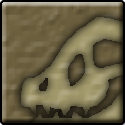
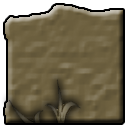
Adicionado imagens dos fóssies no minigame do level 5.

diff --git a/js/main.js b/js/main.js
@@ -20,7 +20,7 @@ var levelImagens = [];
 var nomeJogador;
 var musicas = [];
 var particulas = [];
-var quantidadeObjetos = 81; // imagens e sons
+var quantidadeObjetos = 97; // imagens e sons
 var contadorObjetos = 0; // para gerenciar o loading
 var carregando = true;
 var link = 'https://raw.githubusercontent.com/Dellg/evolution-game/master/';
@@ -174,7 +174,13 @@ function setup(){
   for (var i = 1; i < 9; i++){
     carregaArquivo(fossilImagens, 0, i-1, link + 'img/puzzle/peca' + i + '-0.png');
   }
-  carregaArquivo(fossilImagens, 0, 8, link + 'img/puzzle/peca9.png');
+  for (var i = 1; i < 9; i++){
+    carregaArquivo(fossilImagens, 0, i+7, link + 'img/puzzle/peca' + i + '-1.png');
+  }
+  for (var i = 1; i < 9; i++){
+    carregaArquivo(fossilImagens, 0, i+15, link + 'img/puzzle/peca' + i + '-2.png');
+  }
+  carregaArquivo(fossilImagens, 0, 24, link + 'img/puzzle/peca9.png');
   // imagens dos níveis 1, 2-3, 4 e 5
   for (var i = 1; i < 5; i++){
     carregaArquivo(levelImagens, 0, i-1, link + 'img/level/level' + i + '.png');

diff --git a/js/level5.js b/js/level5.js
@@ -34,9 +34,9 @@ function Level5(criaturasAnteriores, fossil){
   ossos = [];
   obstaculos = [];
   for (var i = 1; i < 9; i++){
-    matriz.push(fossil.splice(random(0, fossil.length - 1), 1)[0]);
+    matriz.push(fossil.splice(random(8 * criatura[1], 8 + (criatura[1] + 1), 1)[0]);
   }
-  matriz.push(fossil.splice(0, 1)[0]);
+  matriz.push(fossil.splice(fossil.length - 1, 1)[0]);
   tipoCriaturasLevel4 = criaturasAnteriores;
   this.carregarDados();
   this.serHumano;
